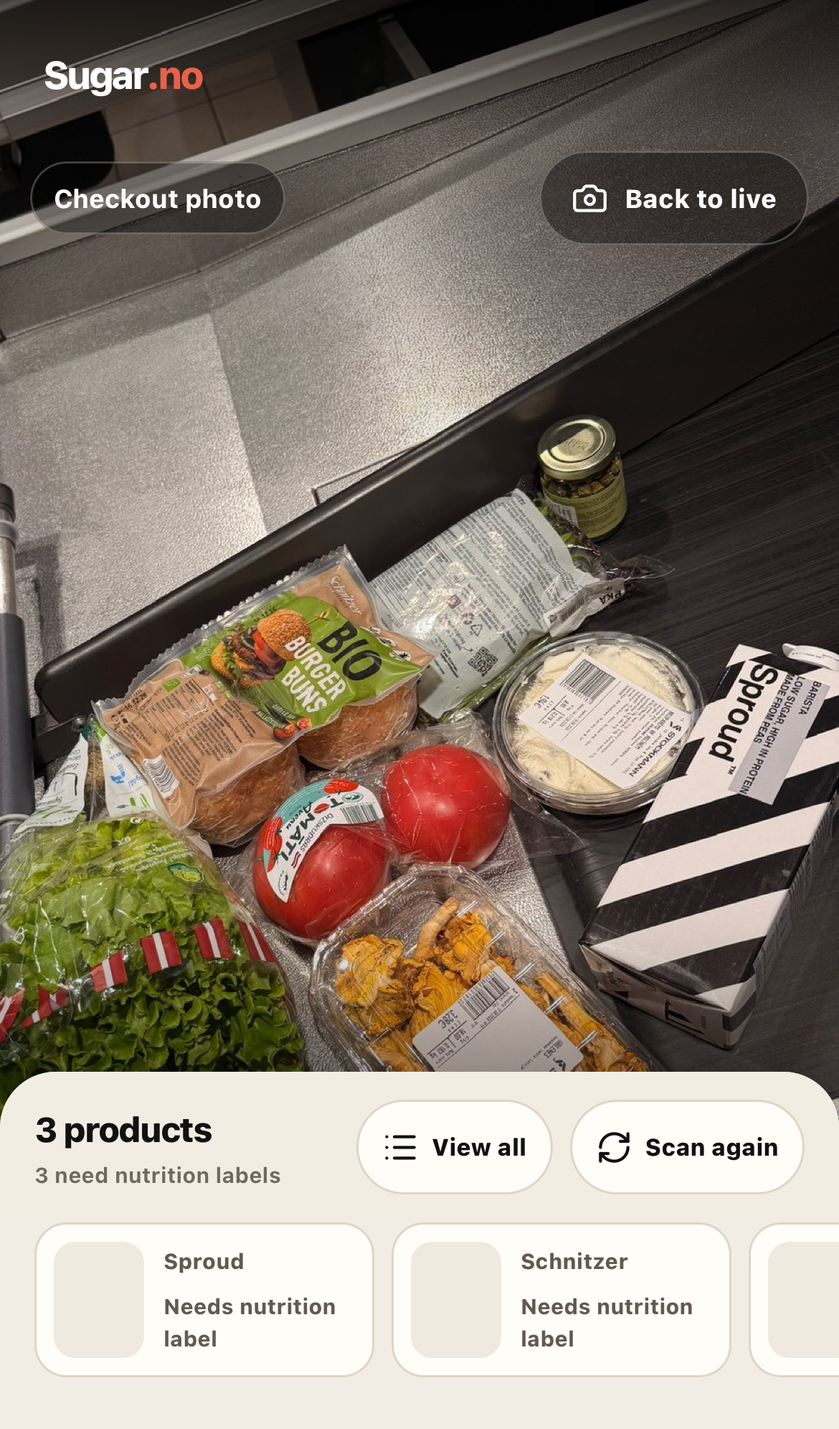
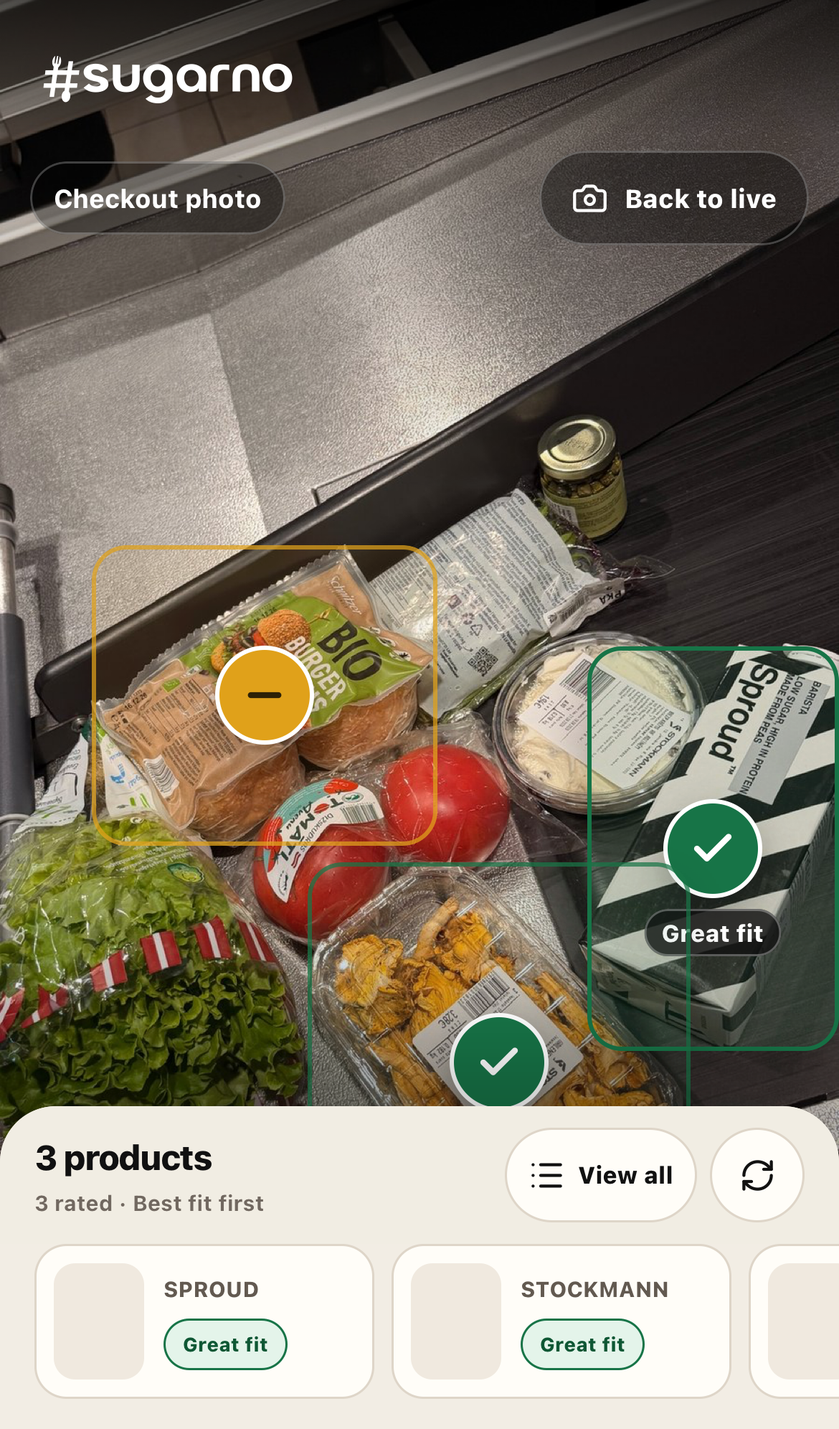
Rate products in checkout demo

diff --git a/src/server/recognition.ts b/src/server/recognition.ts
@@ -1,7 +1,9 @@
 import { GoogleGenAI, ThinkingLevel, createPartFromBase64, createPartFromText } from "@google/genai";
 import { z } from "zod";
 import { dedupeProductDetections } from "@/lib/product-detection-dedupe";
+import { scoreReferenceProduct } from "@/lib/scoring";
 import type {
+  ProductRecord,
   ProductDetection,
   RecognitionMode,
   RecognitionResponse,
@@ -141,6 +143,112 @@ const sampleShelf: ProductDetection[] = [
   }
 ];
 
+function checkoutReferenceProduct(
+  product: ProductRecord,
+  basis: "manufacturer_reference" | "food_composition_reference"
+): ScoredProduct {
+  return scoreReferenceProduct(product, basis, `${basis}_partial`);
+}
+
+const checkoutSproud = checkoutReferenceProduct(
+  {
+    id: "visual:sproud-barista-low-sugar-high-in-protein-drink-made-from-peas-1l",
+    retailerProductId: "visual:sproud-barista-low-sugar-high-in-protein-drink-made-from-peas-1l",
+    brand: "SPROUD",
+    name: "Barista pea drink 1L",
+    shortName: "Barista pea drink 1L",
+    aliases: ["Sproud Barista", "Barista Low Sugar High in Protein Drink Made from Peas"],
+    format: "other",
+    category: "Plant-based drinks",
+    packSizeG: 1000,
+    nutritionBasis: "100ml",
+    energyKcalPer100: 40,
+    gtin: null,
+    nutrientsPer100g: { proteinG: 2.1, fiberG: null, totalSugarG: 1.8 },
+    noAddedSugarClaim: false,
+    imageUrl: null,
+    retailerUrl: "https://besproud.com/sv/products/barista/",
+    sources: [
+      {
+        label: "Sproud official product page",
+        url: "https://besproud.com/sv/products/barista/",
+        checkedAt: "2026-08-25",
+        fields: ["identity", "protein", "totalSugar"],
+        status: "verified"
+      }
+    ],
+    isGolden: false,
+    accent: "mint"
+  },
+  "manufacturer_reference"
+);
+
+const checkoutSchnitzer = checkoutReferenceProduct(
+  {
+    id: "visual:schnitzer-bio-burger-buns",
+    retailerProductId: "visual:schnitzer-bio-burger-buns",
+    brand: "SCHNITZER",
+    name: "Bio Burger Buns gluten-free 250g",
+    shortName: "Bio Burger Buns 250g",
+    aliases: ["Schnitzer Bio Burger Buns", "Bio Burger Buns"],
+    format: "other",
+    category: "Gluten-free bakery",
+    packSizeG: 250,
+    nutritionBasis: "100g",
+    energyKcalPer100: 229,
+    gtin: "4022993046076",
+    nutrientsPer100g: { proteinG: 3.4, fiberG: null, totalSugarG: 3.7 },
+    noAddedSugarClaim: false,
+    imageUrl: null,
+    retailerUrl: "https://www.schnitzer.eu/en/products/bio-burger-buns-glutenfrei",
+    sources: [
+      {
+        label: "Schnitzer official product page",
+        url: "https://www.schnitzer.eu/en/products/bio-burger-buns-glutenfrei",
+        checkedAt: "2026-08-25",
+        fields: ["identity", "protein", "totalSugar"],
+        status: "verified"
+      }
+    ],
+    isGolden: false,
+    accent: "sun"
+  },
+  "manufacturer_reference"
+);
+
+const checkoutChanterelles = checkoutReferenceProduct(
+  {
+    id: "visual:stockmann-gailenes-chanterelles",
+    retailerProductId: "visual:stockmann-gailenes-chanterelles",
+    brand: "STOCKMANN",
+    name: "Fresh chanterelles",
+    shortName: "Fresh chanterelles",
+    aliases: ["Gailenes", "Chanterelles"],
+    format: "other",
+    category: "Fresh mushrooms",
+    packSizeG: 100,
+    nutritionBasis: "100g",
+    energyKcalPer100: 17,
+    gtin: null,
+    nutrientsPer100g: { proteinG: 2, fiberG: null, totalSugarG: 0.4 },
+    noAddedSugarClaim: false,
+    imageUrl: null,
+    retailerUrl: "https://www.matvaretabellen.no/en/mushroom-chantherelle-raw/",
+    sources: [
+      {
+        label: "Norwegian Food Composition Table · raw chanterelle reference",
+        url: "https://www.matvaretabellen.no/en/mushroom-chantherelle-raw/",
+        checkedAt: "2026-08-25",
+        fields: ["protein", "totalSugar"],
+        status: "secondary"
+      }
+    ],
+    isGolden: false,
+    accent: "forest"
+  },
+  "food_composition_reference"
+);
+
 const sampleCheckout: ProductDetection[] = [
   {
     productId: "visual:sproud-barista-low-sugar-high-in-protein-drink-made-from-peas-1l",
@@ -158,7 +266,8 @@ const sampleCheckout: ProductDetection[] = [
     },
     shelfPrice: null,
     retailerOffer: null,
-    nutritionLinkConfidence: null
+    nutritionLinkConfidence: 1,
+    inlineProduct: checkoutSproud
   },
   {
     productId: "visual:schnitzer-bio-burger-buns",
@@ -176,7 +285,8 @@ const sampleCheckout: ProductDetection[] = [
     },
     shelfPrice: null,
     retailerOffer: null,
-    nutritionLinkConfidence: null
+    nutritionLinkConfidence: 1,
+    inlineProduct: checkoutSchnitzer
   },
   {
     productId: "visual:stockmann-gailenes-chanterelles",
@@ -194,7 +304,8 @@ const sampleCheckout: ProductDetection[] = [
     },
     shelfPrice: null,
     retailerOffer: null,
-    nutritionLinkConfidence: null
+    nutritionLinkConfidence: 0.86,
+    inlineProduct: checkoutChanterelles
   }
 ];
 

diff --git a/tests/e2e/scanner.spec.ts b/tests/e2e/scanner.spec.ts
@@ -256,12 +256,15 @@ test("sample shelf photo highlights products and shows a two-factor Sugar.no bad
   expect(accessibility.violations).toEqual([]);
 });
 
-test("checkout photo uses one multi-product scan instead of an animated product", async ({ page }) => {
+test("checkout photo recognizes and rates three products on the belt", async ({ page }) => {
   await unlock(page);
   await openDemoScene(page, "Checkout demo");
-  await expect(page.getByRole("status")).toContainText("3 products · 0 with Sugar.no fit");
-  await expect(page.getByLabel("Checkout photo scanner").locator('button[aria-label^="Open "]')).toHaveCount(0);
-  await expect(page.getByText("3 need nutrition labels", { exact: true })).toBeVisible();
+  await expect(page.getByRole("status")).toContainText("3 products · 3 with Sugar.no fit");
+  const checkoutMarkers = page.getByLabel("Checkout photo scanner").locator('button[aria-label^="Open "]');
+  await expect(checkoutMarkers).toHaveCount(3);
+  await expect(checkoutMarkers.filter({ hasText: "Great fit" })).toHaveCount(2);
+  await expect(checkoutMarkers.filter({ hasText: "Moderate fit" })).toHaveCount(1);
+  await expect(page.getByText("3 rated · Best fit first", { exact: true })).toBeVisible();
   await expect(page.getByAltText("Groceries on a real supermarket checkout conveyor belt")).toBeVisible();
   await page.waitForFunction(() =>
     [...document.querySelectorAll<HTMLImageElement>('div[aria-label="Real supermarket checkout belt sample with three recognized packaged products"] img')]
@@ -272,14 +275,17 @@ test("checkout photo uses one multi-product scan instead of an animated product"
   const ranking = page.getByLabel("Products ranked by Sugar.no fit");
   await expect(ranking).toBeVisible({ timeout: 8_000 });
   await expect(ranking.getByRole("button")).toHaveCount(3);
-  await expect(ranking.getByText("Sproud", { exact: true })).toBeVisible();
-  await expect(ranking.getByText("Schnitzer", { exact: true })).toBeVisible();
-  await expect(ranking.getByText("Stockmann", { exact: true })).toBeVisible();
-  await expect(page.getByRole("heading", { name: "Scan labels to compare" })).toBeVisible();
+  await expect(ranking.getByText("SPROUD", { exact: true })).toBeVisible();
+  await expect(ranking.getByText("SCHNITZER", { exact: true })).toBeVisible();
+  await expect(ranking.getByText("STOCKMANN", { exact: true })).toBeVisible();
+  await expect(page.getByRole("heading", { name: "Best fit first" })).toBeVisible();
   await page.waitForTimeout(300);
   await page.screenshot({ path: "docs/screenshots/checkout-results-mobile.png" });
-  await expect(page.getByText("Turn the pack around", { exact: true })).toBeVisible();
-  await expect(page.getByRole("button", { name: "Scan nutrition label" })).toBeVisible();
+  await expect(page.getByText("Manufacturer nutrition", { exact: true })).toBeVisible();
+  await expect(page.getByText("Needs nutrition label", { exact: true })).toHaveCount(0);
+  await expect(page.getByRole("button", { name: "Scan nutrition label" })).toHaveCount(0);
+  await ranking.getByRole("button", { name: /STOCKMANN Fresh chanterelles/ }).click();
+  await expect(page.getByText("Food composition reference", { exact: true })).toBeVisible();
   await expect(page.getByText("Compare without starting over")).toHaveCount(0);
   await expect(page.getByRole("button", { name: /save/i })).toHaveCount(0);
 });
@@ -291,9 +297,9 @@ test("demo chooser supports shelf, checkout and a clear return to live camera", 
   await page.getByRole("button", { name: "Back to live camera" }).click();
   await expect(page.getByLabel("Live camera scanner")).toBeVisible();
   await openDemoScene(page, "Checkout demo");
-  await expect(page.getByRole("status")).toContainText("3 products · 0 with Sugar.no fit");
+  await expect(page.getByRole("status")).toContainText("3 products · 3 with Sugar.no fit");
   await page.getByRole("button", { name: "View all", exact: true }).click();
-  await expect(page.getByText("Turn the pack around", { exact: true })).toBeVisible();
+  await expect(page.getByRole("heading", { name: "Best fit first" })).toBeVisible();
   await expect(page.getByRole("button", { name: /save/i })).toHaveCount(0);
   await expect(page.getByRole("heading", { name: "Saved options" })).toHaveCount(0);
   await page.getByRole("button", { name: "Return to camera" }).click();

diff --git a/src/components/scanner-app.tsx b/src/components/scanner-app.tsx
@@ -63,8 +63,6 @@ const shelfIds = [
   "proteina-baton-barebells-coco-choco-55-g"
 ];
 
-const checkoutIds = shelfIds;
-
 function makeSessionId() {
   return crypto.randomUUID();
 }
@@ -781,9 +779,8 @@ export function ScannerApp() {
     setResultsExpanded(false);
     setDemoOpen(false);
     track("scan_started", "sample-conveyor");
-    void hydrateProducts(checkoutIds);
     void recognize({ source: "sample-conveyor" });
-  }, [hydrateProducts, recognize, stopActiveCapture, track]);
+  }, [recognize, stopActiveCapture, track]);
 
   async function uploadImage(event: ChangeEvent<HTMLInputElement>) {
     const file = event.target.files?.[0];
@@ -1255,7 +1252,7 @@ export function ScannerApp() {
                           <h2 id="scan-ranking-title">{ratedCount > 0 ? "Best fit first" : "Scan labels to compare"}</h2>
                           <span>
                             {ratedCount > 0
-                              ? "Based on verified protein and total sugar"
+                              ? "Based on source-backed protein and total sugar"
                               : "Turn a pack around and scan its per-100 nutrition table"}
                           </span>
                         </div>
@@ -1700,7 +1697,11 @@ function SugarNoBadge({ product }: { product: ScoredProduct }) {
       ? "Exact Barbora nutrition"
       : product.ratingBasis.startsWith("open_food_facts_")
         ? "Open Food Facts nutrition"
-        : "Nutrition label in this scan";
+        : product.ratingBasis.startsWith("manufacturer_")
+          ? "Manufacturer nutrition"
+          : product.ratingBasis.startsWith("food_composition_")
+            ? "Food composition reference"
+            : "Nutrition label in this scan";
   const values = {
     protein: product.nutrientsPer100g.proteinG,
     sugar: product.nutrientsPer100g.totalSugarG

diff --git a/src/server/recognition.test.ts b/src/server/recognition.test.ts
@@ -61,6 +61,18 @@ describe("recognizeProducts", () => {
       "visual:stockmann-gailenes-chanterelles"
     ]);
     expect(result.detections.every((detection) => detection.identity?.matchKind === "visual_only")).toBe(true);
+    expect(result.detections.map((detection) => detection.inlineProduct?.matchScore)).toEqual([100, 60, 100]);
+    expect(result.detections.map((detection) => detection.inlineProduct?.ratingBasis)).toEqual([
+      "manufacturer_reference",
+      "manufacturer_reference",
+      "food_composition_reference"
+    ]);
+    expect(result.detections.map((detection) => detection.inlineProduct?.nutrientsPer100g)).toEqual([
+      { proteinG: 2.1, fiberG: null, totalSugarG: 1.8 },
+      { proteinG: 3.4, fiberG: null, totalSugarG: 3.7 },
+      { proteinG: 2, fiberG: null, totalSugarG: 0.4 }
+    ]);
+    expect(result.detections.every((detection) => detection.inlineProduct?.ratingStatus === "complete")).toBe(true);
     expect(result.imageStored).toBe(false);
   });
 

diff --git a/src/lib/types.ts b/src/lib/types.ts
@@ -10,7 +10,11 @@ export type RatingBasis =
   | "open_food_facts_reference"
   | "open_food_facts_reference_partial"
   | "package_label_reference"
-  | "package_label_reference_partial";
+  | "package_label_reference_partial"
+  | "manufacturer_reference"
+  | "manufacturer_reference_partial"
+  | "food_composition_reference"
+  | "food_composition_reference_partial";
 
 export type RatingSignal = "protein" | "inverseSugar";
 

diff --git a/README.md b/README.md
@@ -15,7 +15,7 @@ The app is a working mobile-first web/PWA concept with:
 - the official white Sugar.no symbol and wordmark sourced from the current `sugar.no` website, stored locally as a first-party SVG so scanner branding does not depend on a third-party runtime request;
 - automatic live-camera frame sampling after the user grants permission;
 - full-frame shelf recognition that asks for up to eight distinct readable SKUs in one pass, while repeated facings of one SKU remain grouped;
-- one recognition API for camera, saved images, a deterministic four-item shelf photo and a real checkout photo with three visually recognized packaged products;
+- one recognition API for camera, saved images, a deterministic four-item shelf photo and a real checkout photo with three recognized, source-rated products;
 - a reproducible active-food index generated from 9,707 non-adult products across Barbora Latvia's main grocery sections;
 - a checked-in broad nutrition snapshot of 7,433 exact products with source-backed energy, protein and total sugar (76.57% of the active-food index), plus the deployed counts in `/api/health`;
 - a curated nutrition catalog of 40 protein snacks used only as the deterministic category-percentile benchmark, not as the scanner's coverage ceiling;
@@ -38,7 +38,7 @@ The app is a working mobile-first web/PWA concept with:
 - metadata-only analytics with raw-image-like values rejected at the API boundary;
 - 21 authored Mobile Safari scenarios plus deterministic sample scenes, including the complete unknown-package-to-label-to-fit recovery path, landscape saved-shelf multi-pass recognition and a responsive matrix for iPhone 17 Pro portrait/landscape, a large iPhone and a small iPhone.
 
-The guaranteed shelf and checkout scenes work without third-party credentials. Live camera/upload recognition names readable packages, then checks the curated benchmark, the broad exact-Barbora nutrition snapshot and an exact Open Food Facts record. If none supplies both required factors, the result says `Needs nutrition label` and offers one functional camera action instead of ending at `Identified`. The app is deployed from GitHub `main` to Railway with a public HTTPS camera route. Production catalog/analytics storage still requires Supabase.
+The guaranteed shelf and checkout scenes work without third-party credentials. The checkout fixture carries official manufacturer nutrition for Sproud and Schnitzer plus an explicitly labelled generic raw-chanterelle composition reference for the Stockmann pack, so all three pinned identities produce visible Sugar.no fit markers. Live camera/upload recognition names readable packages, then checks the curated benchmark, the broad exact-Barbora nutrition snapshot and an exact Open Food Facts record. If none supplies both required factors, the result says `Needs nutrition label` and offers one functional camera action instead of ending at `Identified`. The app is deployed from GitHub `main` to Railway with a public HTTPS camera route. Production catalog/analytics storage still requires Supabase.
 
 A landscape saved shelf photo is analyzed as one complete frame plus three overlapping row close-ups. The client remaps all row boxes to the original photo, merges repeated identities and prefers a source-backed exact SKU over an overlapping generic visual read. Portrait or focused product photos still use one request. Exact fit data remains fail-closed: row zoom improves readable flavor/pack evidence, while Barbora nutrition is attached only after deterministic text/quantity matching or a high-confidence comparison with the constrained candidate packshot.
 
@@ -257,8 +257,8 @@ GitHub `main` is the release source. `COMMIT_SHA` is refreshed before a direct C
 
 ## Sample-scene assets
 
-`public/samples/latvia-shelf.jpg` is an AI-generated or AI-composited concept photo created for this prototype. `public/samples/latvia-checkout.jpg` is a real checkout-belt photo supplied by the project owner; its published copy is cropped, resized and stripped of EXIF/GPS metadata. Neither sample contains baked-in Sugar.no overlays. The deterministic checkout response pins the three package identities Gemini could read in this frame—Sproud, Schnitzer Bio Burger Buns and Stockmann chanterelles—without inventing nutrition, a Sugar.no fit, a shelf price or a retailer match. The samples make the interaction reproducible without third-party credentials, but they do not measure general recognition accuracy.
+`public/samples/latvia-shelf.jpg` is an AI-generated or AI-composited concept photo created for this prototype. `public/samples/latvia-checkout.jpg` is a real checkout-belt photo supplied by the project owner; its published copy is cropped, resized and stripped of EXIF/GPS metadata. Neither sample contains baked-in Sugar.no overlays. The deterministic checkout response pins the three package identities Gemini could read in this frame—Sproud, Schnitzer Bio Burger Buns and Stockmann chanterelles—and attaches source-backed Protein/Sugar values so the concept visibly demonstrates three rated overlays and a best-first list. Sproud and Schnitzer use their official manufacturer pages; Stockmann chanterelles use the Norwegian Food Composition Table's generic raw-chanterelle entry and are labelled `Food composition reference`, not exact Stockmann nutrition. No shelf price or retailer match is invented. The samples make the interaction reproducible without third-party credentials, but they do not measure general recognition accuracy.
 
 ## Known limitations
 
-The deterministic shelf fixture and pinned real-checkout result prove the multi-product interaction; they are not evidence of computer-vision accuracy. The broad Barbora index and Open Food Facts fallback improve coverage but do not mean every package will receive an exact record or automatic rating: packaging, language, variants, barcodes, availability, community data, nutrition and prices change. Page-listed nutrition and Open Food Facts are external data, not independently audited label databases. The nutrition-label recovery requires one legible per-100 table and is deliberately rejected when the basis or OCR evidence is ambiguous. Shelf-price OCR is shown only above its confidence threshold and still needs physical Latvian store validation. Barbora is the only connected retailer, so `best price` is not claimed. Real p95 latency, false positives, physical iPhone behavior and cross-retailer comparison remain unverified. See [Bugs.md](Bugs.md) for the live list.
+The deterministic shelf fixture and pinned real-checkout result prove the multi-product interaction; they are not evidence of computer-vision accuracy. The checkout chanterelle result is a generic raw-food composition reference, not an exact Stockmann label audit. The broad Barbora index and Open Food Facts fallback improve coverage but do not mean every package will receive an exact record or automatic rating: packaging, language, variants, barcodes, availability, community data, nutrition and prices change. Page-listed nutrition and Open Food Facts are external data, not independently audited label databases. The nutrition-label recovery requires one legible per-100 table and is deliberately rejected when the basis or OCR evidence is ambiguous. Shelf-price OCR is shown only above its confidence threshold and still needs physical Latvian store validation. Barbora is the only connected retailer, so `best price` is not claimed. Real p95 latency, false positives, physical iPhone behavior and cross-retailer comparison remain unverified. See [Bugs.md](Bugs.md) for the live list.

diff --git a/Bugs.md b/Bugs.md
@@ -1,5 +1,7 @@
 # Bugs
 
+- **2026-08-25: the real checkout demo named three packages but showed no product boxes or Sugar.no value, so it appeared that recognition had failed.** The pinned Sproud and Schnitzer identities now carry official manufacturer Protein/Sugar data, while Stockmann chanterelles use an explicitly labelled generic raw-chanterelle food-composition reference. The same checkout photo now renders three fit-coloured overlays, `3 products · 3 with Sugar.no fit` and a complete best-first list. The deterministic scene remains an interaction fixture, not recognition-accuracy evidence.
+
 - **2026-08-25: the guaranteed Shelf demo described online savings but never supplied a price comparison, so the investor path could not demonstrate the requested crossed-price purchase action.** The leading Barebells fixture now carries an explicitly labelled €3.49 demo shelf value and the exact Barbora SKU offer verified at €2.79 on 25 August 2026. The compact result crosses out only the demo shelf value and exposes one 44 px `Buy cheaper` action; the expanded result preserves the same two prices, €0.70 difference and exact retailer link.
 
 - **2026-08-25: the scanner header approximated the Sugar.no name with styled text instead of using the official brand mark.** The header now renders the exact white symbol-and-wordmark SVG currently published on `sugar.no`, with its original `137 × 26.07` viewBox and aspect ratio preserved as a local first-party asset.
@@ -46,7 +48,7 @@ This file is the running record of scanner defects found and resolved.
 - **2026-08-24: live camera cadence exceeded the first public rate-limit default and `429` retried forever.** The default is now 36 requests per 60 seconds versus roughly 29 stable-frame attempts per minute. A `429` pauses the capture loop, reads `Retry-After`, preserves a provisional result and exposes explicit retry/demo actions. Samples remain exempt; unit and browser regressions encode the contract.
 - **2026-08-24: provider-unavailable responses did not stop automatic capture.** The camera loop now pauses immediately, preserves a provisional result when present and exposes explicit retry/demo actions instead of repeatedly spending requests.
 - **2026-08-24: an uncertain shelf-completion pass erased a valid first product.** A single broad-match result is now held provisionally while the full shelf gets one more pass. If that pass is uncertain, the first detection remains visible and locked with `Scan again`; it is no longer cleared.
-- **2026-08-24: the checkout fixture still looked staged and recognized products that were composited into the scene.** It now uses the project owner's real checkout-belt photo. One successful Gemini read confirmed Sproud, Schnitzer Bio Burger Buns and Stockmann chanterelles; the deterministic demo pins only those three identities, with no invented nutrition, fit, price or retailer offer. The public JPEG is cropped, resized and has no EXIF/GPS metadata.
+- **2026-08-24 (updated 2026-08-25): the checkout fixture still looked staged and recognized products that were composited into the scene.** It now uses the project owner's real checkout-belt photo. One successful Gemini read confirmed Sproud, Schnitzer Bio Burger Buns and Stockmann chanterelles; the deterministic demo pins only those three identities. It now attaches official manufacturer nutrition to Sproud/Schnitzer and an explicitly labelled generic raw-chanterelle composition reference to Stockmann; no price or retailer offer is invented. The public JPEG is cropped, resized and has no EXIF/GPS metadata.
 - **2026-08-24: the broad camera instruction could bias Gemini toward one central package instead of the whole shelf.** The broad pass now scans the full frame left-to-right and top-to-bottom, asks for up to eight distinct readable front-facing SKUs and explicitly continues beyond the central package. A separate WebKit regression proves three different rated products survive in one live-camera result; identical facings are still de-duplicated.
 - **2026-08-24: price comparison was hidden too deep and generic source disclosures cluttered the investor flow.** A trusted camera price now appears beneath the recognized product in the compact sheet and tray. For a cheaper exact Barbora SKU, the shelf price is crossed out and the result says `Cheaper at Barbora` with a `Buy cheaper at Barbora` action. The visible `Data sources and limits` and `How this result was made` accordions were removed; the underlying confidence, exact-SKU and no-invention safeguards remain enforced in code and documented internally.
 - **2026-08-21: save controls competed with the core scan and comparison flow.** Product, checkout and Similar options save buttons, the local saved list and its toast were removed. Recognition, comparison and exact retailer actions are unchanged.

diff --git a/docs/acceptance.md b/docs/acceptance.md
@@ -17,7 +17,7 @@ Status reflects reproducible evidence in this repository, not the intended final
 | Result sheet expands into a page | Recognition opens a compact 158 px phone sheet with product thumbnails; an explicit control expands it between `top: 0` and `bottom: 0`, hides background controls from focus and collapses back to camera | Pass locally |
 | iPhone responsive matrix | Mobile Safari keeps the camera, compact actions, status and expanded dialog inside 402×874 iPhone 17 Pro portrait, 874×402 landscape, 440×956 large portrait and 375×667 small portrait viewports; only explicit product rails scroll horizontally | Pass locally |
 | Landscape saved shelf photo | One full-frame read plus three overlapping row close-ups are merged into original-photo coordinates. Source-backed exact SKUs replace overlapping broad generic identities; portrait/focused uploads remain single-pass. Latvian inflections and `4x80g` versus `3+1 / 320g` are covered without relaxing the exact-SKU/packshot gate | Logic and Mobile Safari pass; two reported production photos pending release check |
-| Multi-product fit order | The expanded dialog renders a vertical best-first list. Complete Protein/Sugar fits sort from higher to lower score with visible fit text and values; identity-only or incomplete items remain stable at the end as `Needs nutrition label` without a rank. The four-item shelf and three-item checkout fixtures encode both states | Pass locally; production recheck pending |
+| Multi-product fit order | The expanded dialog renders a vertical best-first list. Complete Protein/Sugar fits sort from higher to lower score with visible fit text and values; identity-only or incomplete items remain stable at the end as `Needs nutrition label` without a rank. The four-item shelf and three-item checkout fixtures encode rated multi-product order; separate live-camera tests encode the pending state | Pass locally; production recheck pending |
 | Uncertain broad frame gets a focused retry | Mobile Safari regression returns `not_sure` for the broad pass, verifies the automatic `focusMode=true` request, remaps its box and then holds the matched result; threshold unit tests cover broad 0.72 versus focused 0.58 | Pass locally |
 | Several products from one live shelf frame | Broad recognition scans the complete frame and returns up to eight distinct readable front-facing SKUs; unit coverage verifies the prompt and that retailer resolution reaches identities seven and eight with bounded concurrency. The browser regression is written for a provisional one-item result followed by a fuller shelf result | Logic pass; current browser and real-shelf runs pending |
 | Repeated facings count once | Server and client normalize same-SKU detections; unit test merges four Coca-Cola descriptions and live-camera WebKit test renders one unique product | Pass locally |
@@ -33,7 +33,7 @@ Status reflects reproducible evidence in this repository, not the intended final
 | Badge calculation and missing-data rule | Unit tests cover the equal protein/inverse-sugar formula, fiber independence, category percentiles, EU-reference bands, solid/liquid sugar thresholds, one-factor neutrality, zero-factor identity, adult pages and no-data pages | Pass |
 | Exact Barbora link and current price | Live page parser, brand guard, candidate-margin tests and UI end-to-end assertions allow only an exact SKU to drive the `Cheaper at Barbora` action or crossed-out shelf price | Pass locally |
 | Shelf demo | One photorealistic concept image returns four deterministic detections with compact icon markers and a collapsed thumbnail sheet; the legend and product comparison appear on expansion | Pass as concept |
-| Checkout demo | One real checkout-belt photo returns the three packaged identities Gemini could read (Sproud, Schnitzer and Stockmann) in the expandable sheet; all remain unrated and off the camera overlay until nutrition is verified | Pass as interaction fixture |
+| Checkout demo | One real checkout-belt photo returns the three packaged identities Gemini could read (Sproud, Schnitzer and Stockmann), three fit-coloured camera overlays and a three-row best-first list. Sproud and Schnitzer use official manufacturer nutrition; chanterelles use an explicitly labelled generic raw-food composition reference | Pass locally as an interaction fixture, not a CV benchmark |
 | Shelf/checkout navigation | `Show demo` opens shelf, checkout and saved-photo choices; every demo has a clear return to live camera | Pass locally |
 | No save actions | Product, checkout and Similar options results expose comparison and retailer actions without Save buttons or a persisted product list | Pass locally |
 | Repeated-frame de-duplication | Unit tests retain one tray entry per SKU across repeated live-camera detections | Pass as logic |

diff --git a/docs/product-qa.md b/docs/product-qa.md
@@ -12,7 +12,7 @@ Run this check on the deployed HTTPS URL using Safari on an iPhone. Use a privat
 6. Tap each marker and each product in the ranked list. Confirm that its fit text appears and the product card changes. The package outline must remain the fit color: no white selected/best ring and no `2/2 signals` pill may appear over the camera.
 7. Swipe the Similar options cards left and right. Confirm that they are comparable formats and remain usable without horizontal page overflow.
 8. Open the Barbora action. Confirm that the exact SKU page opens in a new tab and that Sugar.no never claims affiliate revenue.
-9. Return to live camera, tap `Show demo`, then `Checkout demo`. Confirm it shows the real checkout-belt photo and returns three named packaged products at once: Sproud, Schnitzer and Stockmann. Because the deterministic identity fixture contains no nutrition, the expanded list must say `Scan labels to compare`, show `Needs nutrition label` on each product and show no camera fit markers or invented Sugar.no result.
+9. Return to live camera, tap `Show demo`, then `Checkout demo`. Confirm it shows the real checkout-belt photo and returns three named products at once: Sproud, Schnitzer and Stockmann. Three coloured package outlines must appear on the photo; the compact sheet must say `3 products · 3 with Sugar.no fit`; the expanded page must rank two `Great fit` rows and one `Moderate fit` row. Open Sproud and Schnitzer and confirm the badge says `Manufacturer nutrition`. Open Stockmann chanterelles and confirm it says `Food composition reference`, because that result uses a generic raw-chanterelle reference rather than claiming exact Stockmann nutrition.
 10. Expand Shelf and Checkout results. Confirm there are no `Save`, `Saved`, `Save for next shop` or `Saved options` controls; Similar options and the Barbora link must remain available.
 
 ## Camera and uncertainty
@@ -62,4 +62,4 @@ Run this check on the deployed HTTPS URL using Safari on an iPhone. Use a privat
 
 Record the iPhone model, iOS version, location, lighting, tested SKUs, false positives, misses and time-to-result. Do not call the physical-shelf benchmark passed until those observations exist.
 
-The shelf sample is an AI-generated interaction fixture. The checkout sample is a real project-owner photo with a deterministic three-identity response. Verify layout and comprehension with both, but do not record their deterministic detections as recognition accuracy.
+The shelf sample is an AI-generated interaction fixture. The checkout sample is a real project-owner photo with a deterministic three-identity, three-rating response. Verify layout and comprehension with both, but do not record their deterministic detections as recognition accuracy. Treat the chanterelle result as generic food-composition guidance, not an audited Stockmann label.

diff --git a/docs/design-reference.md b/docs/design-reference.md
@@ -9,7 +9,7 @@ Sugar.no applies those patterns to relative protein and total-sugar comparison. 
 
 The broad camera pass follows the multi-product shelf pattern: it scans the complete frame, can return up to eight distinct readable front-facing SKUs and groups repeated facings of the same SKU. The focused center retry is only a fallback after the broad pass is uncertain.
 
-The checkout fixture must be visually unmistakable as a supermarket conveyor, not a generic dark tabletop. It now uses a real project-owner checkout photo. The public copy is cropped, resized and stripped of EXIF/GPS metadata; its deterministic result names only the three package identities Gemini could read and does not add fit markers without verified nutrition.
+The checkout fixture must be visually unmistakable as a supermarket conveyor, not a generic dark tabletop. It uses a real project-owner checkout photo. The public copy is cropped, resized and stripped of EXIF/GPS metadata; its deterministic result names the three package identities Gemini could read and overlays all three because each now has a source-backed two-factor fit. Official manufacturer nutrition supports Sproud and Schnitzer; the chanterelle badge explicitly identifies its generic food-composition reference instead of implying an exact Stockmann record.
 
 When several comparable rated products are present, `Best fit in this scan` is a small eyebrow heading above the leading product name. It is not a separate status pill and stays hidden for a one-product scan.
 

diff --git a/docs/investor-demo-script.md b/docs/investor-demo-script.md
@@ -34,7 +34,7 @@ For the optional live-camera moment, first show several different products acros
 
 Return to live camera, tap `Show demo`, then `Checkout demo`.
 
-“Checkout uses exactly the same comparison behavior as the shelf: one view of the real conveyor belt beside the cashier, four detected packages and colored overlays on the image. We do not tell someone to undo a purchase, shame the basket or add another action to save a product.”
+“Checkout uses exactly the same comparison behavior as the shelf: one view of the real conveyor belt beside the cashier, three detected products and three colored overlays on the image. The expanded view puts the two Great fits before the Moderate fit and shows the Protein/Sugar evidence. Sproud and Schnitzer use manufacturer nutrition; the chanterelles use a clearly labelled generic food-composition reference. We do not tell someone to undo a purchase, shame the basket or add another action to save a product.”
 
 ## Close
 
